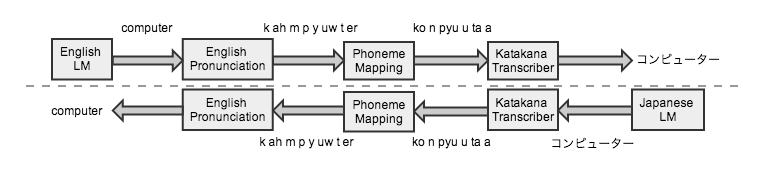
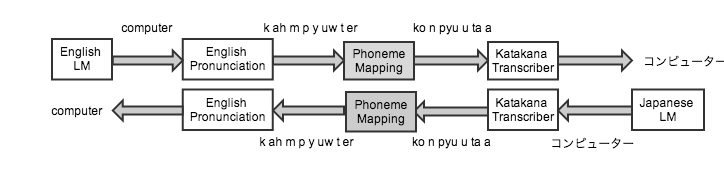
math_def

diff --git a/transliteration.tex b/transliteration.tex
@@ -3,16 +3,15 @@
 \begin{center}
 \begin{figure*}
 \begin{tabular}{c}
-\includegraphics[scale=0.6]{figures/fsts}\tabularnewline
-\end{tabular}\caption{\label{font-table} Transliteration generative story as an FST cascade. Top: transliteration of the word ``computer'' to Japanese. Bottom: the reverse process. Each box represents a transducer. During training, only the phoneme mapping models are estimated while keeping the other models fixed.}
+\includegraphics[scale=0.58]{figures/fsts}\tabularnewline
+\end{tabular}\caption{\label{font-table} The transliteration generative story as a cascade of FSTs . \textbf{Top:} transliteration of the word ``computer'' to Japanese. \textbf{Bottom:} the reverse process. Each box represents a transducer. In PAT for deciphering transliterations, the two cascades are jointly trained to maximize both the data log-likelihood and the parameter agreement of the two (shaded) phoneme mapping models.}
 \label{fig:fsts}
 \end{figure*}
 \end{center}
 
-
 In the following two sections we show that PAT leads to better transliteration models even without parallel data. We first briefly describe a generative model for transliterated terms, due to Knight and Graehl, and subsequently report the results of a carefully designed decipherment experiment.
 
-\subsubsection{Deciphering Transliterations}
+\subsubsection{Transliterations}
 
 Transliteration is a mapping of terms between writing systems of different languages. 
 Usually, the transliterator tries to preserve the sound of a term as it is spoken in the original language. For example, the word ``computer'' in Japanese is transliterated to Japanese as ``ko n pyu u ta a'' (in Romaji). 
@@ -20,29 +19,30 @@ The \emph{back-transliteration} task asks to reverse this process by restoring t
 
 Knight and Graehl \cite{KG98} model the transliteration of an English
 term $w$ into a Japanese $k$ using a generative story, encoded as
-a cascade of four finite state transducers (see Figure \ref{fig:fsts}): 
+a cascade of four finite state transducers (see top of Figure \ref{fig:fsts}): 
 \begin{enumerate}
 \item First, a word $w$ is generated according to an English language model
-$P_0[w]$
+$\PP[w]$
 \item $w$ is then mapped to a sequence of English
 phonemes $(e_{1},\ldots,e_{M})$ according to a pronunciation model
 \item Each phoneme $e_{m}$ is mapped to a sequence of Japanese phonemes
-$j_{m}$ according to a phoneme mapping model $P_0[j_{m}\mid e_{m}]$
+$j_{m}$ according to a phoneme mapping model $\PP[j_{m}\mid e_{m}]$
 (in practice, restricted to 1-to-1 or 1-to-2 phoneme mappings)
 \item Finally, the entire Japanese pronunciation sequence is mapped to a
 Japanese word $k$ in Katakana script
 \end{enumerate}
 Knight and Graehl (\cite{KG98}) construct and train these FSTs independently. 
-In particular, to train the phoneme mapping model $P_0[j_{m}\mid e_{m}]$ a parallel
+In particular, to train the phoneme mapping model $\PP[j_{m}\mid e_{m}]$ a parallel
 phoneme corpus $\{(w_{n},\, k_{n})\}$ is prepared and its likelihood is then maximized using EM.
 
-However, collecting parallel data is often a time consuming and laborious process.
+\subsubsection{Deciphering Transliterations}
+Collecting parallel data is often a time consuming, laborious process.
 To combat the need for parallel data Ravi and Knight \cite{RK09} suggest learning to transliterate in the \emph{deciphermenet} setting:
 In decipherment, only Japanese words $K=\{k_{n}\}_{n=1..|K|}$ need be collected. 
-Treating its English origin as missing data, a Japanese word $k$ is then viewed as being generated by all English words $w$ in the language model via the marginalization equation $P[k]=\sum_{w}P_0[w]\cdot P_0[k\mid w]$.
+Treating the English origin as missing data, a Japanese word $k$ is then viewed as being generated by all English words $w$ in the language model via the marginalization equation $P[k] = \sum_{w}\PP[w]\cdot \PP[k\mid w]$.
 In this case, the data log-likelihood takes the form:
 \begin{align*}
-log P_0[K]& = \sum_n log \sum_{w} P_0[w] \cdot P_0[k_n\mid w]
+log \PP[K]& = \sum_n log \sum_{w} \PP[w] \cdot \PP[k_n\mid w]
 \end{align*}
 
 %We note a few points:
@@ -54,15 +54,14 @@ log P_0[K]& = \sum_n log \sum_{w} P_0[w] \cdot P_0[k_n\mid w]
 
 \subsubsection{Parameter Agreement Training}
 The generative story above describes how English is transliterated to Japanese.
-To apply PAT, we first require a model that generates English from transliterated Japanese.
-To do so, we simply reverse the generative story - we first sample the word $k$ from a Japanese language model (estimated over Katakana only) and proceed using the inverse FSTs, in the reverse order.
-Training the resulting model in the decipherment setting amounts to collecting a (monolingual) English corpus $W=\{w_n\}_{n=1..|W|}$ and then maximizing its log-likelihood $log P_1[W]$.
+To apply PAT, we require a model that generates English terms from transliterated Japanese.
+To do so, we simply reverse the generative story (see bottom of Figure \ref{fig:fsts}) - we first sample the word $k$ from a Japanese language model (estimated over Katakana only) and proceed using the inverse FSTs in the reverse order.
+Training the resulting model in the decipherment setting amounts to collecting an additional (monolingual) English corpus $W=\{w_n\}_{n=1..|W|}$ and then maximizing its log-likelihood $log \QQ[W]$.
 
-Finally in PAT, we maximize the regularized objective function:
+Finally in PAT, we maximize the joint regularized objective function:
 \begin{align*}
-log P_0[K] + logP_1[W] + \lambda R(P_0, P_1)
+log \PP[K] + log\QQ[W] + \lambda R(\PP, \QQ)
 \end{align*}
-
 
 %Overall, less than 200 parameters have value larger than 0.01 in the parallel case, while
 %in decipherment, the number orders on 400. As expected, ordinary EM
@@ -89,10 +88,12 @@ parallel setting, and a 73\% error rate when using their best decipherment setti
 
 In order to compare PAT against independent training, we produced similar decipherment setting as in \cite{RK09}. Specifically, used the following Language Models (LM) and FSTs:
 \begin{itemize}
-\item Two unigram language models over terms: a ~40K English LM estimated over the most frequent capitalized words from the gigaword corpus, and a ~25K Japanese LM, estimated over the most frequent Katakana terms in the Japanese news 2005-2008 Leipzig Corpora (http://corpora.informatik.uni-leipzig.de/download.html)
+\item Two unigram LMs over terms: a ~40K English LM estimated over the most frequent capitalized words from the gigaword corpus, and a ~25K Japanese LM, estimated over the most frequent Katakana terms in the Japanese news 2005-2008 Leipzig corpora (http://corpora.informatik.uni-leipzig.de/download.html)
 \item English and Japanese pronunciation FSTs. The English pronuncation model was constructed using the CMU pronunciation dictionary. A Japanese pronunciation models was hand built.
 \end{itemize}
-Note that these LM and FSTs require only monolingual knowledge to create.
+Note that the construction of these LM and FSTs require only monolingual knowledge.
+In decipherment, the 
+
 
 
 \begin{itemize}

diff --git a/method.tex b/method.tex
@@ -13,7 +13,7 @@ takes the form:
 \arg\max_{P_{0}\,,P_{1}}L(P_{0}\mid X)+L(P_{1}\mid X)+\lambda R(P_{0},P_{1})
 \]
 where $\lambda\ge0$ is a regularization coefficient to be tuned.
-In practice, we found the following two regularizers useful:
+In practice, we found the following two regularizers useful:`
 \begin{align*}
 R_{GM}(P_{0},\, P_{1}) & =  \sum_{e,f}\sqrt{P_{0}[f\mid e]\cdot P_{1}[e\mid f]}\\
 R_{CD}(P_{0},\, P_{1}) & =  -\frac{1}{2}\sum_{e,f}(P_{0}[e\mid f]-P_{1}[f\mid e])^{2}
@@ -35,18 +35,18 @@ the E-step expect counts for each event $P_{0}[f\mid e]$ or $P_{1}[e\mid f]$
 are collected separately. In the M-step, the regularized complete
 data log-likelihood function is constructed from the expected counts,
 and is then maximized via projected gradient ascent: at each time
-step, the models $P_{i}$ (for $i\in\{0,1\}$) are updated according
-to the gradient of the regularized objective function $\frac{\partial}{\partial P_{i}}(L(P_{i}\mid X)+\lambda R(P_{i},P_{1-i})$
+step, the models $\PP, \QQ$ are updated according
+to the gradient of the regularized objective function 
+%$\frac{\partial}{\partial \PP}(L(\PP \mid X)+\lambda R(\PP, \QQ)$
 and projected back onto the probability simplex. We used simple stopping
-conditions based on objective function convergence or a fixed number
-of iterations. Since both regularizers are concave on the probability
+conditions based on objective function convergence or a fixed number of iterations. Since both regularizers are concave on the probability
 simplex, our M-step is an efficiently solvable maximization program.
 
-Finally, the gradients of the negative regularizers reveal that eaceh
+Finally, the gradients of the negative regularizers reveal that each 
 regularizer encourage agreement in different manners - $R_{GM}$ is
 multiplicative and $R_{CD}$ is additive:
 \begin{align*}
-\frac{\partial R_{GM}}{\partial P_{i}}&=\frac{1}{2}\sqrt{\frac{P_{1-i}}{P_{i}}} \\
-\frac{\partial R_{CD}}{\partial P_{i}}&=-(P_{i}-P_{1-i}^{T})
+\frac{\partial R_{GM}}{\partial \PP}&=\frac{1}{2}\sqrt{\frac{\QQ}{\PP}} \\
+\frac{\partial R_{CD}}{\partial \PP}&=-(\PP-\QQ^{T})
 \end{align*}
-Here, the square root is taken entry-wise.
+In $R_{GM}$, the square root is taken entry-wise.

diff --git a/math_definition.tex b/math_definition.tex
@@ -1,0 +1,53 @@
+%%% load AMS-Latex Package
+\usepackage{amsmath,amsfonts}
+\usepackage{amsthm,amssymb,amsopn}
+\usepackage{bm} % bold symbol
+
+% define fonts
+\newcommand{\vct}[1]{\boldsymbol{#1}} % vector
+\newcommand{\mat}[1]{\boldsymbol{#1}} % matrix
+
+%%%% Special math symbols
+\newcommand{\field}[1]{\mathbb{#1}}
+\newcommand{\R}{\field{R}} % real domain
+\newcommand{\C}{\field{C}} % complex domain
+\newcommand{\F}{\field{F}} % functional domain
+%\newcommand{\T}{^{\top}\!\!} % transpose
+\newcommand{\T}{^{\textrm T}} % transpose
+\newcommand{\TN}{^{-\textrm T}} % transpose
+
+
+%%% define constant
+\newcommand{\cst}[1]{\mathsf{#1}}
+
+%% operator in linear algebra, functional analysis
+\newcommand{\inner}[2]{#1\cdot #2}
+\newcommand{\norm}[1]{\|#1\|}
+\newcommand{\twonorm}[1]{\|#1\|_2^2}
+% operator in functios, maps such as M: domain1 --> domain 2
+\newcommand{\Map}[1]{\mathcal{#1}}
+
+% operator in probability: expectation, covariance,
+\newcommand{\ProbOpr}[1]{\mathbb{#1}}
+% independence
+\newcommand\independent{\protect\mathpalette{\protect\independenT}{\perp}}
+\def\independenT#1#2{\mathrel{\rlap{$#1#2$}\mkern2mu{#1#2}}}
+% conditional independence
+\newcommand{\cind}[3]{{#1} \independent{#2}\,|\,#3}
+% conditional expectation
+\newcommand{\cndexp}[2]{\ProbOpr{E}\,[ #1\,|\,#2\,]}
+
+% operator in optimization
+\DeclareMathOperator{\argmax}{arg\,max}
+\DeclareMathOperator{\argmin}{arg\,min}
+\newcommand{\todo}[1]{{\color{red}#1}}
+
+
+% environment
+\newtheorem{thm}{Theorem}
+
+\newcommand{\eat}[1]{}
+
+
+\newcommand{\PP}{P_0}
+\newcommand{\QQ}{P_1}

diff --git a/background.tex b/background.tex
@@ -8,11 +8,11 @@ data $X=\{e_{n},\, f_{n}\}_{n=1}^{N}$ :
 \max_{P}L(P\mid X)=\max_{P}\sum_{n}logP[f_{n}\mid e_{n}]
 \]
 In a setting where two complementary asymmetric models are trained, we adopt the
-notation $P_{0}[e_{n}\mid f_{n}]$ for one direction and $P_{1}[f_{n}\mid e_{n}]$
+notation $\PP[e_{n}\mid f_{n}]$ for one direction and $\QQ[f_{n}\mid e_{n}]$
 for the other. 
 The two models can be independently trained by maximizing
 each data log-likelihood function separately:
 \begin{align*}
-P_{0}^{*} &= \arg\max_{P_{0}}L(P_{0}\mid X)\\
-P_{1}^{*} &= \arg\max_{P_{1}}L(P_{1}\mid X)
+\PP^{*} &= \arg\max_{\PP}L(\PP\mid X)\\
+\QQ^{*} &= \arg\max_{\QQ}L(\QQ\mid X)
 \end{align*}

diff --git a/acl2014.tex b/acl2014.tex
@@ -22,6 +22,8 @@
 \usepackage{amsmath}
 \usepackage{graphicx}
 
+
+
 %\setlength\titlebox{5cm}
 
 % You can expand the titlebox if you need extra space
@@ -42,8 +44,9 @@
   Affiliation / Address line 2 \\
   Affiliation / Address line 3 \\
   {\tt email@domain} \\}
-
 \date{}
+
+\input{math_definition.tex}
 
 \begin{document}
 \maketitle
